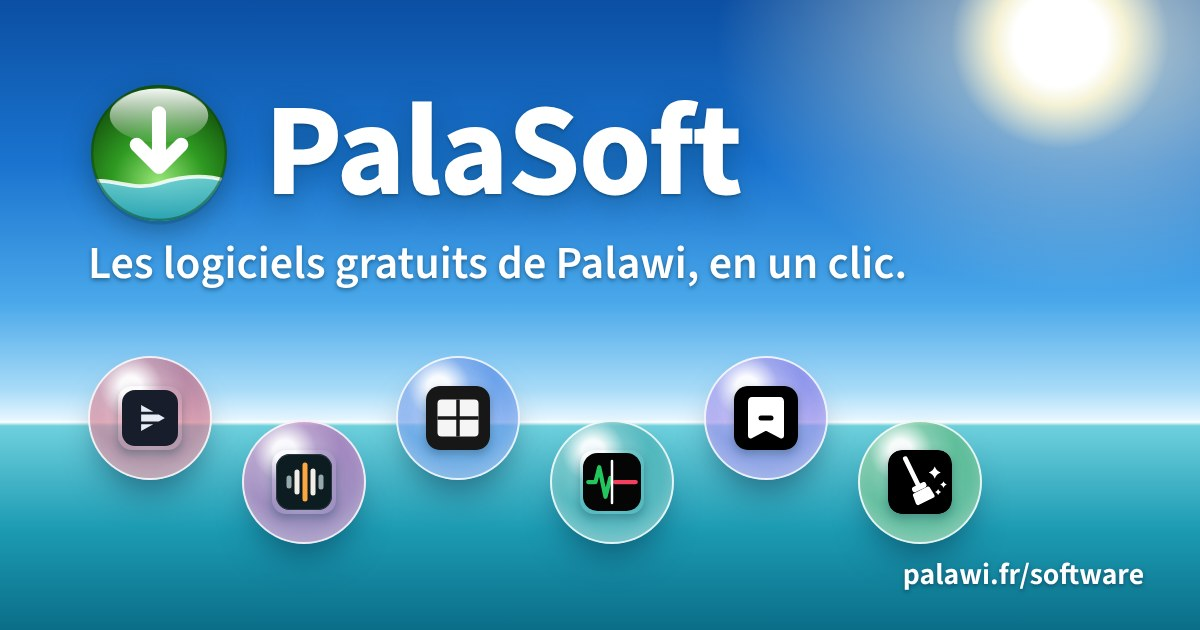
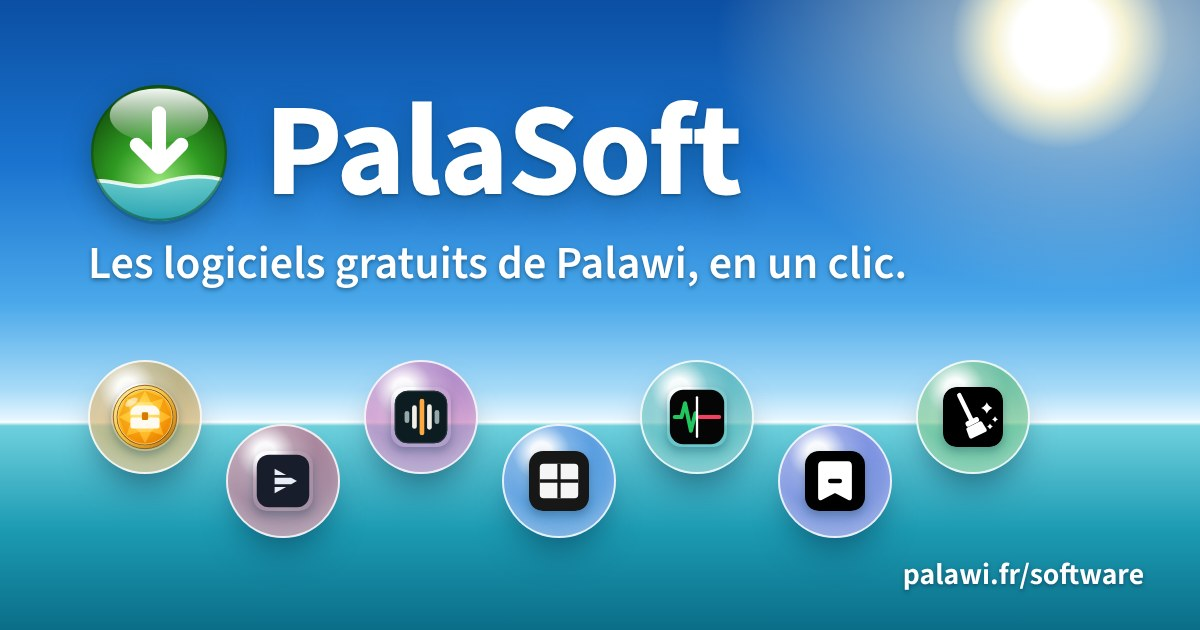
feat(seo): add chest counter to the share card

Changed region(s): [[0.0617, 0.5429, 0.8633, 0.8746]]

diff --git a/scripts/og-card/card.html b/scripts/og-card/card.html
@@ -9,13 +9,13 @@ linear-gradient(to bottom,#0b4fa3 0,#1a74cf 26%,#4aa8ea 48%,#a9dcf8 62%,#e6f6ff 
 .brand svg{width:150px;height:150px;filter:drop-shadow(0 8px 14px rgb(6 48 74/.45))}
 .name{font-size:132px;font-weight:700;letter-spacing:-.015em;line-height:1;text-shadow:0 2px 3px rgb(6 48 74/.4),0 10px 30px rgb(6 48 74/.35)}
 .sub{position:absolute;left:88px;top:236px;margin:0;max-width:1040px;font-size:46px;font-weight:600;line-height:1.2;text-shadow:0 2px 4px rgb(6 48 74/.55)}
-.sea{position:absolute;left:88px;top:356px;display:flex;gap:30px}
-.b{display:grid;place-items:center;width:124px;height:124px;border:2px solid rgb(255 255 255/.85);border-radius:50%;
+.sea{position:absolute;left:88px;top:360px;display:flex;gap:24px}
+.b{display:grid;place-items:center;width:114px;height:114px;border:2px solid rgb(255 255 255/.85);border-radius:50%;
 background:radial-gradient(circle at 34% 24%,rgb(255 255 255/.95) 0 9%,rgb(255 255 255/.2) 26%,transparent 46%),
 radial-gradient(circle at 50% 60%,color-mix(in srgb,var(--t) 35%,rgb(255 255 255/.5)),color-mix(in srgb,var(--t) 55%,rgb(20 90 160/.4)));
 box-shadow:inset 0 -8px 18px rgb(255 255 255/.35),0 22px 36px -14px rgb(6 48 74/.65)}
 .b:nth-child(even){margin-top:64px}
-.b img{width:64px;height:64px;border-radius:14px;box-shadow:0 4px 10px rgb(6 48 74/.35)}
+.b img{width:60px;height:60px;border-radius:14px;box-shadow:0 4px 10px rgb(6 48 74/.35)}.b img.round{width:68px;height:68px;border-radius:50%}
 .url{position:absolute;right:56px;bottom:34px;font-size:30px;font-weight:650;text-shadow:0 2px 4px rgb(6 48 74/.6)}
 </style></head><body><div class="c"><div class="sun"></div>
 <div class="brand"><svg xmlns="http://www.w3.org/2000/svg" viewBox="0 0 64 64">
@@ -43,4 +43,4 @@ box-shadow:inset 0 -8px 18px rgb(255 255 255/.35),0 22px 36px -14px rgb(6 48 74/
 </svg>
 <span class="name">PalaSoft</span></div>
 <p class="sub">Les logiciels gratuits de Palawi, en un clic.</p>
-<div class="sea"><span class="b" style="--t:#e0475f"><img src="../../src/assets/software/palaclips/icon.svg"></span><span class="b" style="--t:#d64ea8"><img src="../../src/assets/software/slbs-soundboard/icon.svg"></span><span class="b" style="--t:#3a7bf0"><img src="../../src/assets/software/layout-manager/icon.svg"></span><span class="b" style="--t:#19b3a6"><img src="../../src/assets/software/silence-splitter/icon.svg"></span><span class="b" style="--t:#8a63f0"><img src="../../src/assets/software/timestamper/icon.svg"></span><span class="b" style="--t:#3fbf5a"><img src="../../src/assets/software/palas-item-clear/icon.svg"></span></div><span class="url">palawi.fr/software</span></div></body></html>
+<div class="sea"><span class="b" style="--t:#e8a020"><img class="round" src="../../src/assets/software/chest-counter/icon.svg"></span><span class="b" style="--t:#e0475f"><img src="../../src/assets/software/palaclips/icon.svg"></span><span class="b" style="--t:#d64ea8"><img src="../../src/assets/software/slbs-soundboard/icon.svg"></span><span class="b" style="--t:#3a7bf0"><img src="../../src/assets/software/layout-manager/icon.svg"></span><span class="b" style="--t:#19b3a6"><img src="../../src/assets/software/silence-splitter/icon.svg"></span><span class="b" style="--t:#8a63f0"><img src="../../src/assets/software/timestamper/icon.svg"></span><span class="b" style="--t:#3fbf5a"><img src="../../src/assets/software/palas-item-clear/icon.svg"></span></div><span class="url">palawi.fr/software</span></div></body></html>
